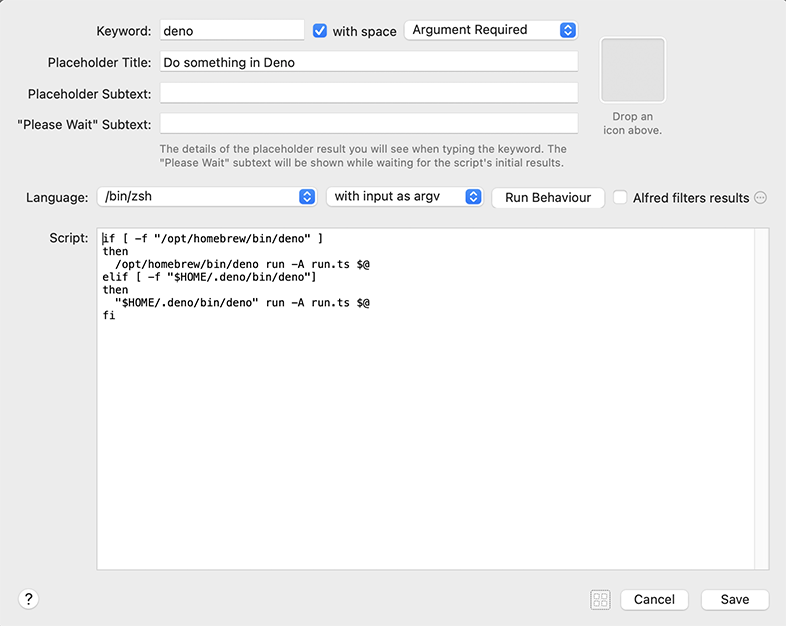
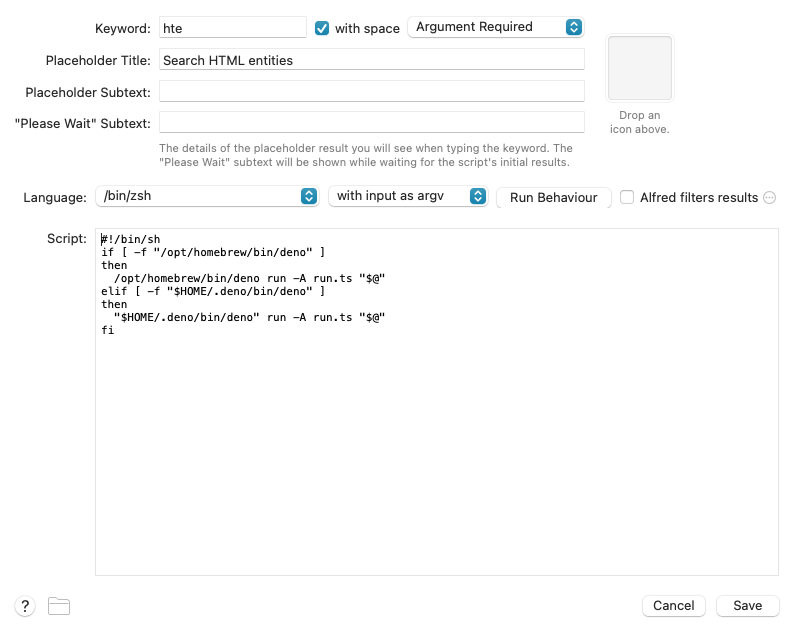
Update workflow syntax

diff --git a/README.md b/README.md
@@ -94,12 +94,13 @@ with the following settings:
 - Script:
 
 ```sh
+#!/bin/sh
 if [ -f "/opt/homebrew/bin/deno" ]
 then
-  /opt/homebrew/bin/deno run -A run.ts $@
-elif [ -f "$HOME/.deno/bin/deno"]
+  /opt/homebrew/bin/deno run -A run.ts "$@"
+elif [ -f "$HOME/.deno/bin/deno" ]
 then
-  "$HOME/.deno/bin/deno" run -A run.ts $@
+  "$HOME/.deno/bin/deno" run -A run.ts "$@"
 fi
 ```
 
